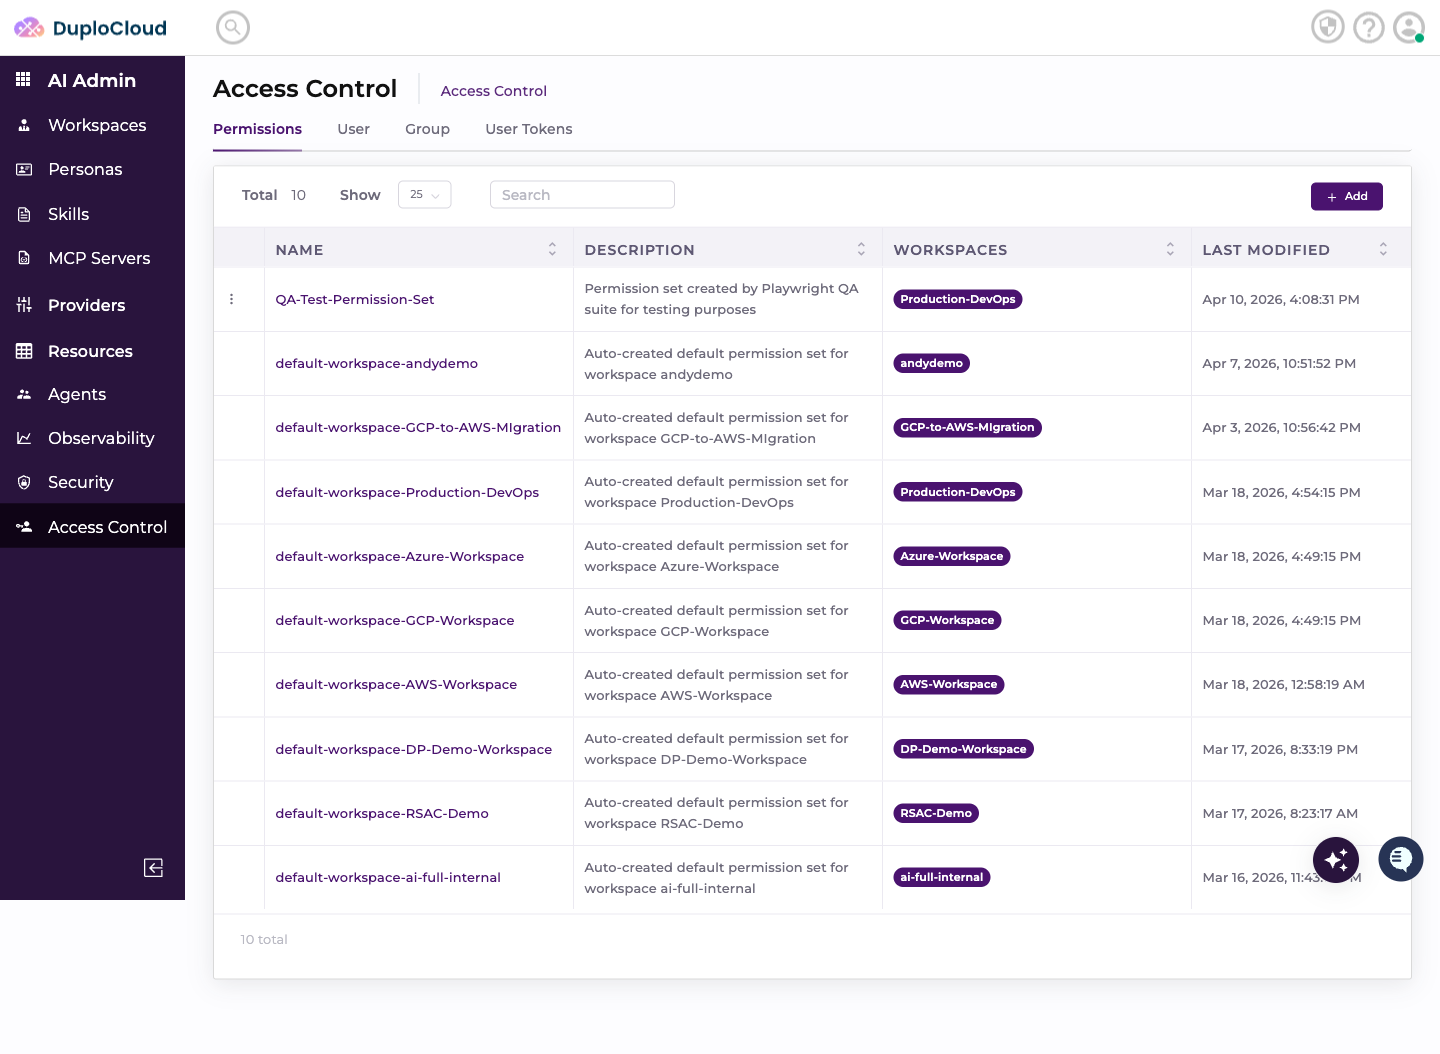
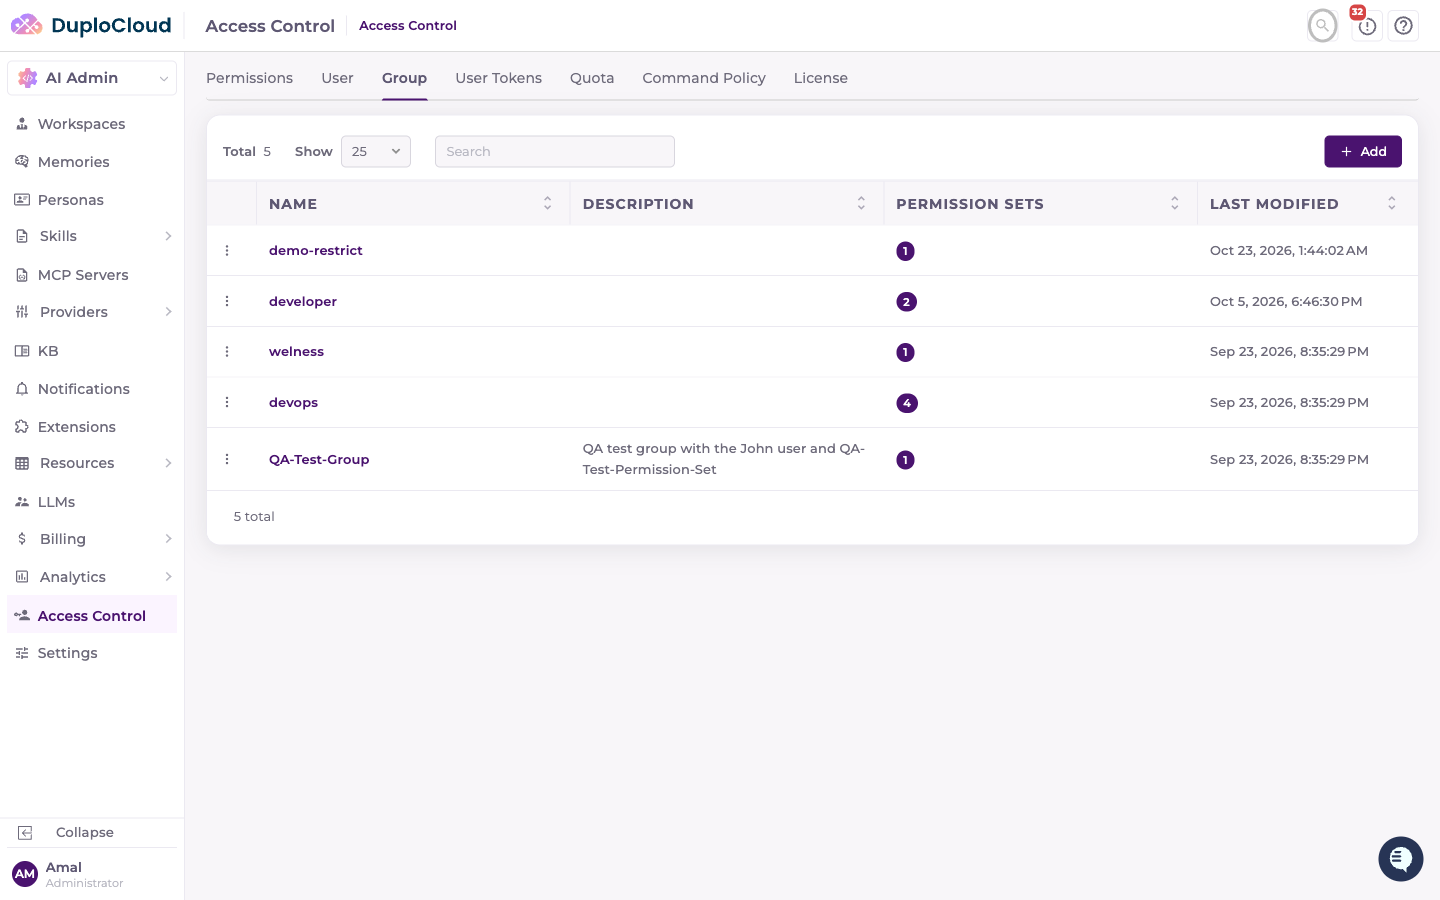
Update armor/access-control/user-groups.md for new portal shell (A1)
- Full rewrite: the group creation form has no Users field, confirmed in both
  duplo-ui code and live salesdemo -- membership moved entirely to
  User.UserGroups. Dropped the old Select-the-User steps; replaced with a note
  and cross-link to users.md, where a user's own Add/Edit form has a Permission
  Set Groups field that does the assigning.
- Added the reciprocal cross-link back to permission-sets.md in Prerequisites.
- Recaptured all screenshots (all were pre-redesign, dated 2026-04-14);
  dropped the duplicate embed (groups-step-10-final-list.png used twice) and
  10 other now-unreferenced old assets.
- Verified against duplo-ui origin/master and duplo-ai-helpdesk origin/main.

diff --git a/armor/access-control/user-groups.md b/armor/access-control/user-groups.md
@@ -1,97 +1,74 @@
 # User Groups
 
-This document explains how to create a new Permission Set Group in the DuploCloud AI Suite Access Control panel, linking a user and a permission set together.
+This document explains how to create a new Permission Set Group in the DuploCloud AI Suite Access Control panel. A group is a named, reusable bundle of permission sets — creating one does not, by itself, add any users to it.
 
 ***
 
 ## Prerequisites
 
-* A user already created (e.g. `John` — see **create user tutorial**)
-* A permission set already created (e.g. `QA-Test-Permission-Set` — see **create permission set tutorial**)
+* At least one permission set already created (e.g. `QA-Test-Permission-Set`) — see [Permission Sets](permission-sets.md)
 * Admin permissions on the Access Control section
 
 ***
 
-## Step 1 — Navigate to Access Control
+## Step 1 — Navigate to the Group Tab
 
-Go to **AI Admin → Access Control** in the left-hand navigation.
+Go to **AI Admin → Access Control** in the left-hand navigation, then click the **Group** tab. This lists all existing groups and how many permission sets each one carries.
 
-![Step 1 — Access Control page](../../.gitbook/assets/groups-step-01-access-control.png)
-
-***
-
-## Step 2 — Click the "Group" Tab
-
-At the top of the Access Control page, click the **Group** tab. This lists all existing groups.
-
-![Step 2 — Group tab](../../.gitbook/assets/groups-step-02-group-tab.png)
+![Step 1 — Group tab](../../.gitbook/assets/groups-step-01-access-control.png)
 
 ***
 
-## Step 3 — Click "Add"
+## Step 2 — Click "Add"
 
-In the top-right corner, click the **+ Add** button. The Add Permission Set Group form slides in.
+In the top-right corner, click the **+ Add** button. The Add Permission Set Group page opens with **Name**, **Description**, and **Permission Sets** fields.
 
-![Step 3 — Add Group form](../../.gitbook/assets/groups-step-03-form-opened.png)
+![Step 2 — Add Group form](../../.gitbook/assets/groups-step-02-add-empty.png)
 
 ***
 
-## Step 4 — Enter a Group Name
+## Step 3 — Enter a Group Name
 
 Click the **Name** field and type a name for the group.
 
-In this example: `QA-Test-Group`
-
-![Step 4 — Name filled](../../.gitbook/assets/groups-step-04-name-filled.png)
+![Step 3 — Name filled](../../.gitbook/assets/groups-step-03-name-filled.png)
 
 ***
 
-## Step 5 — Enter a Description
+## Step 4 — Enter a Description
 
 Click the **Description** textarea and describe the group's purpose.
 
-![Step 5 — Description filled](../../.gitbook/assets/groups-step-05-description-filled.png)
+![Step 4 — Description filled](../../.gitbook/assets/groups-step-04-description-filled.png)
 
 ***
 
-## Step 6 — Select the Permission Set
+## Step 5 — Select One or More Permission Sets
 
-Click the **Permission Sets** dropdown. Type to filter, then select the permission set to assign to this group.
+Click the **Permission Sets** dropdown. Type to filter, then select every permission set this group should grant. You can select more than one.
 
-In this example: `QA-Test-Permission-Set`
-
-![Step 6 — Permission Sets dropdown open](../../.gitbook/assets/groups-step-06-permission-dropdown.png)
-
-![Step 6b — Permission set selected](../../.gitbook/assets/groups-step-06b-permission-selected.png)
+![Step 5 — Permission set selected](../../.gitbook/assets/groups-step-05-permissionsets-selected.png)
 
 ***
 
-## Step 7 — Select the User
+## Step 6 — Submit the Form
 
-Click the **Users** dropdown. Type to filter by email or display name, then select the user to add to this group.
+Review the completed group, then click **Create Group**. A green **Success** toast confirms the group was saved.
 
-In this example: `amal.kiran13@gmail.com` (John)
-
-![Step 7 — Users dropdown open](../../.gitbook/assets/groups-step-07-user-dropdown.png)
-
-![Step 7b — User selected](../../.gitbook/assets/groups-step-07b-user-selected.png)
+![Step 6 — Success toast](../../.gitbook/assets/groups-step-06-success-toast.png)
 
 ***
 
-## Step 8 — Review and Submit
+## Step 7 — Verify the Group in the List
 
-Review the completed group form — confirm the name, permission set, and user are all set correctly. Click **Create Group**.
+The new group appears in the Groups table with its permission-set count.
 
-![Step 8 — Before submit](../../.gitbook/assets/groups-step-08-before-submit.png)
-
-A green **Success** toast confirms the group was saved.
-
-![Step 9 — After submit](../../.gitbook/assets/groups-step-10-final-list.png)
+![Step 7 — Final groups list](../../.gitbook/assets/groups-step-07-final-list.png)
 
 ***
 
-## Step 9 — Verify the Group in the List
+## Adding Users to a Group
 
-The new group appears in the Groups table, showing the linked permission set count and user count.
+A group is only a bundle of permission sets — it does not carry a user list of its own. To add a user to a group, go to the **User** tab, and on that user's Add or Edit form, select this group in its **Permission Set Groups** field. See [Users](users.md).
 
-![Step 10 — Final groups list](../../.gitbook/assets/groups-step-10-final-list.png)
+A user who is a member of an identity-provider-synced group (see [Azure AD & Okta User Sync](azure-ad-okta-user-sync.md)) has that membership managed by the sync job instead, and it will be overwritten on the next sync cycle if changed manually.
